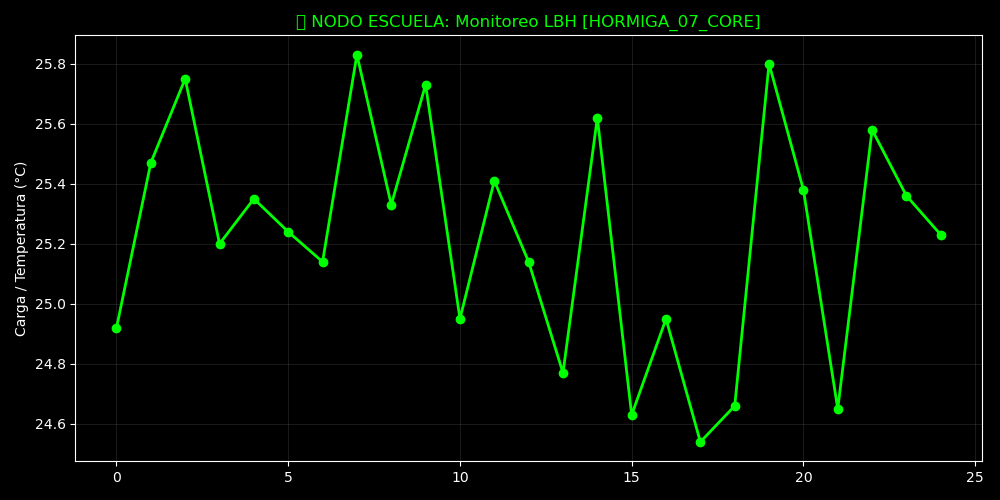
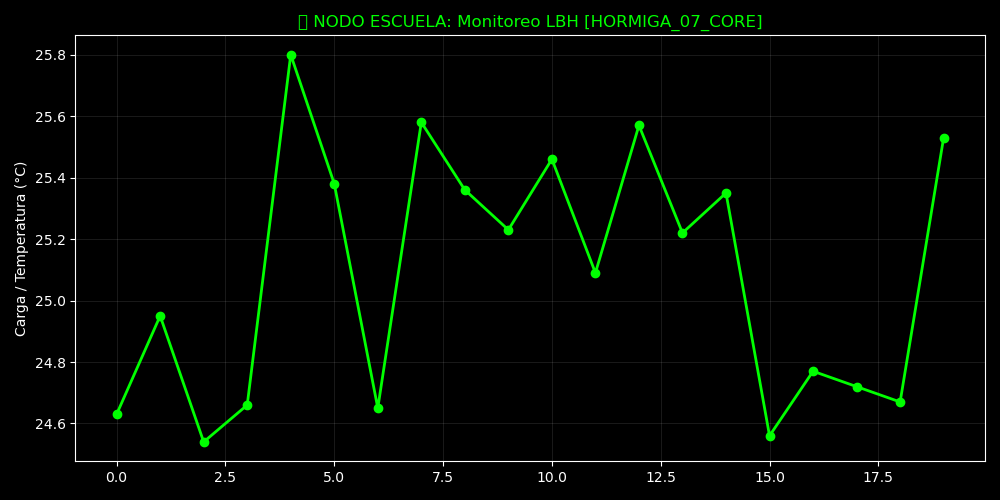
📈 Gráfico Vivo: HORMIGA_07_CORE [2025-12-28 20:12:33]

diff --git a/README.md b/README.md
@@ -7,7 +7,7 @@
 ![Rendimiento del Enjambre](REPORTE_RENDIMIENTO_HORMIGAS.png)
 
 > **Estado:** Operativo validado por protocolo LBH.
-> **Última Actualización: 2025-12-28 20:11:36 CST (LBH-Validated)
+> **Última Actualización: 2025-12-28 20:12:33 CST (LBH-Validated)
 
 ---
 © 2025 HormigasAIS - San Miguel, El Salvador.
